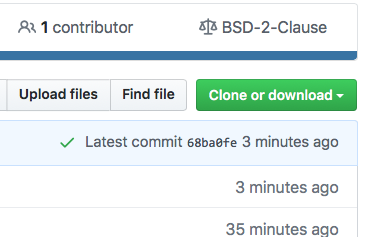
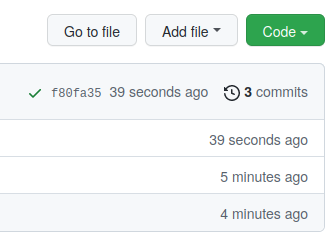
screenshots and gh actions example was outdated; fixes #188

diff --git a/content/continuous-integration.md b/content/continuous-integration.md
@@ -77,8 +77,8 @@ and push the changes (`git push origin main`).
 
    In this step we will enable GitHub Actions.
    Select "Actions" from your GitHub repository page. You get to a page
-   "Get started with GitHub Actions". Select the button for "Set up
-   this workflow" under Python Application:
+   "Get started with GitHub Actions". Select the button for "Configure"
+   under Python Application:
 
    ```{figure} img/python_application.png
    :alt: Selecting a Python workflow
@@ -91,7 +91,7 @@ and push the changes (`git push origin main`).
 
    ```{code-block} yaml
    ---
-   emphasize-lines: 34-36
+   emphasize-lines: 37-39
    ---
    # This workflow will install Python dependencies, run tests and lint with a single version of Python
    # For more information see: https://help.github.com/actions/language-and-framework-guides/using-python-with-github-actions
@@ -104,17 +104,20 @@ and push the changes (`git push origin main`).
      pull_request:
        branches: [ main ]
 
+   permissions:
+     contents: read
+
    jobs:
      build:
 
        runs-on: ubuntu-latest
 
        steps:
-       - uses: actions/checkout@v2
-       - name: Set up Python 3.8
-         uses: actions/setup-python@v2
+       - uses: actions/checkout@v3
+       - name: Set up Python 3.10
+         uses: actions/setup-python@v3
          with:
-           python-version: 3.8
+           python-version: "3.10"
        - name: Install dependencies
          run: |
            python -m pip install --upgrade pip
@@ -135,7 +138,6 @@ and push the changes (`git push origin main`).
 
    ```{figure} img/gh_action_commit.png
    :alt: Committing the change
-   :width: 400px
 
    Committing the file via the GitHub web interface: follow the flow, give it some commit name. You can commit directly to master.
    ```
